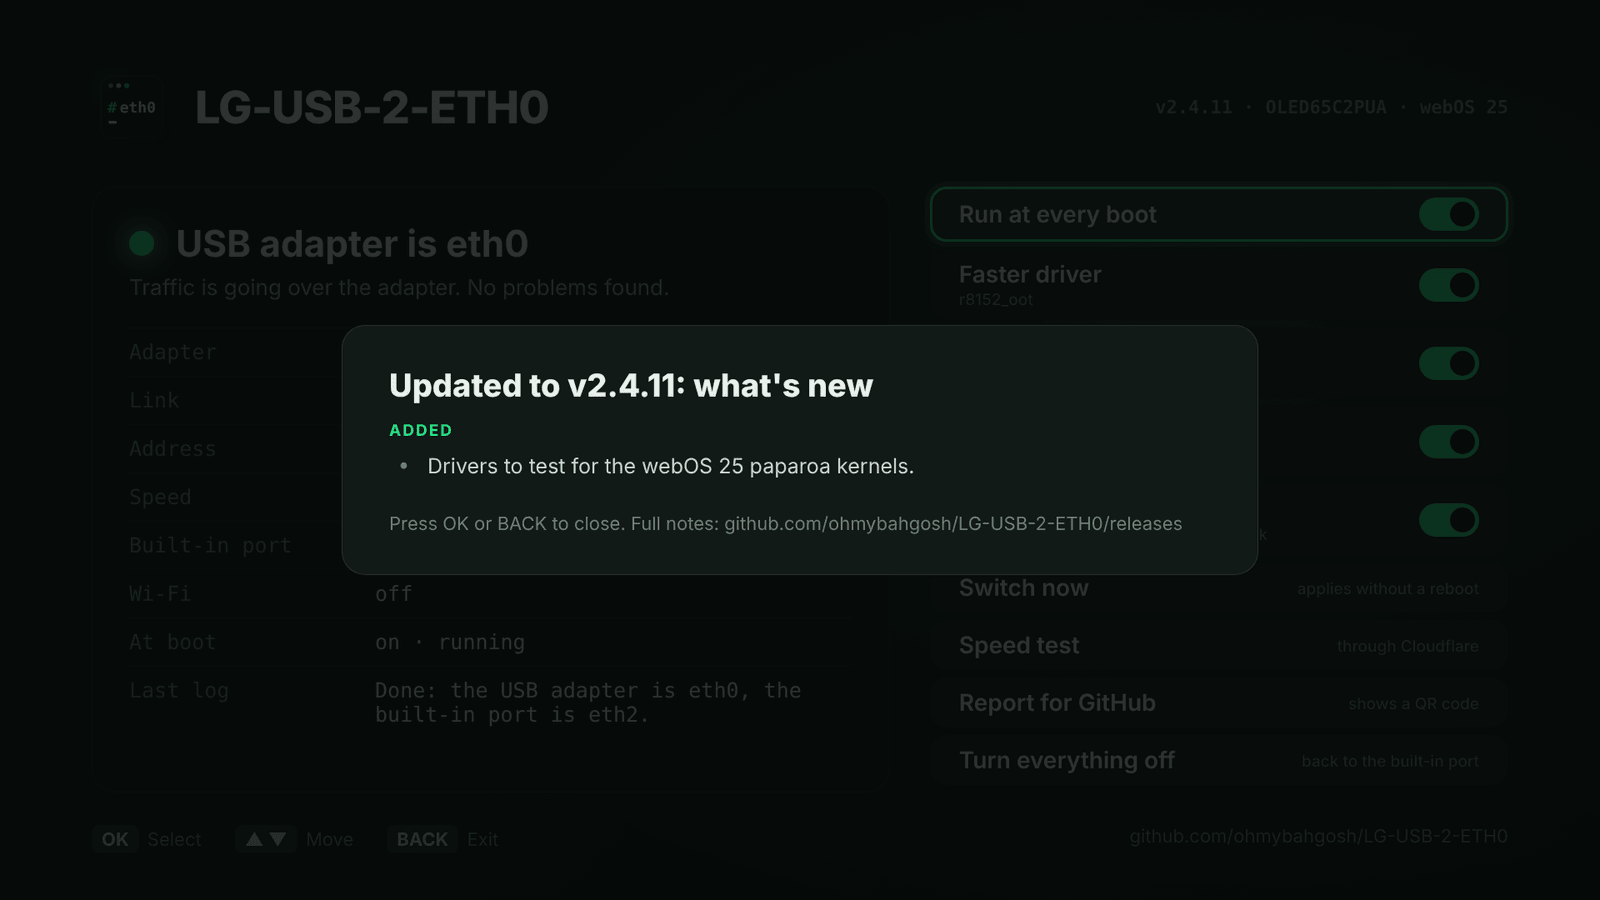
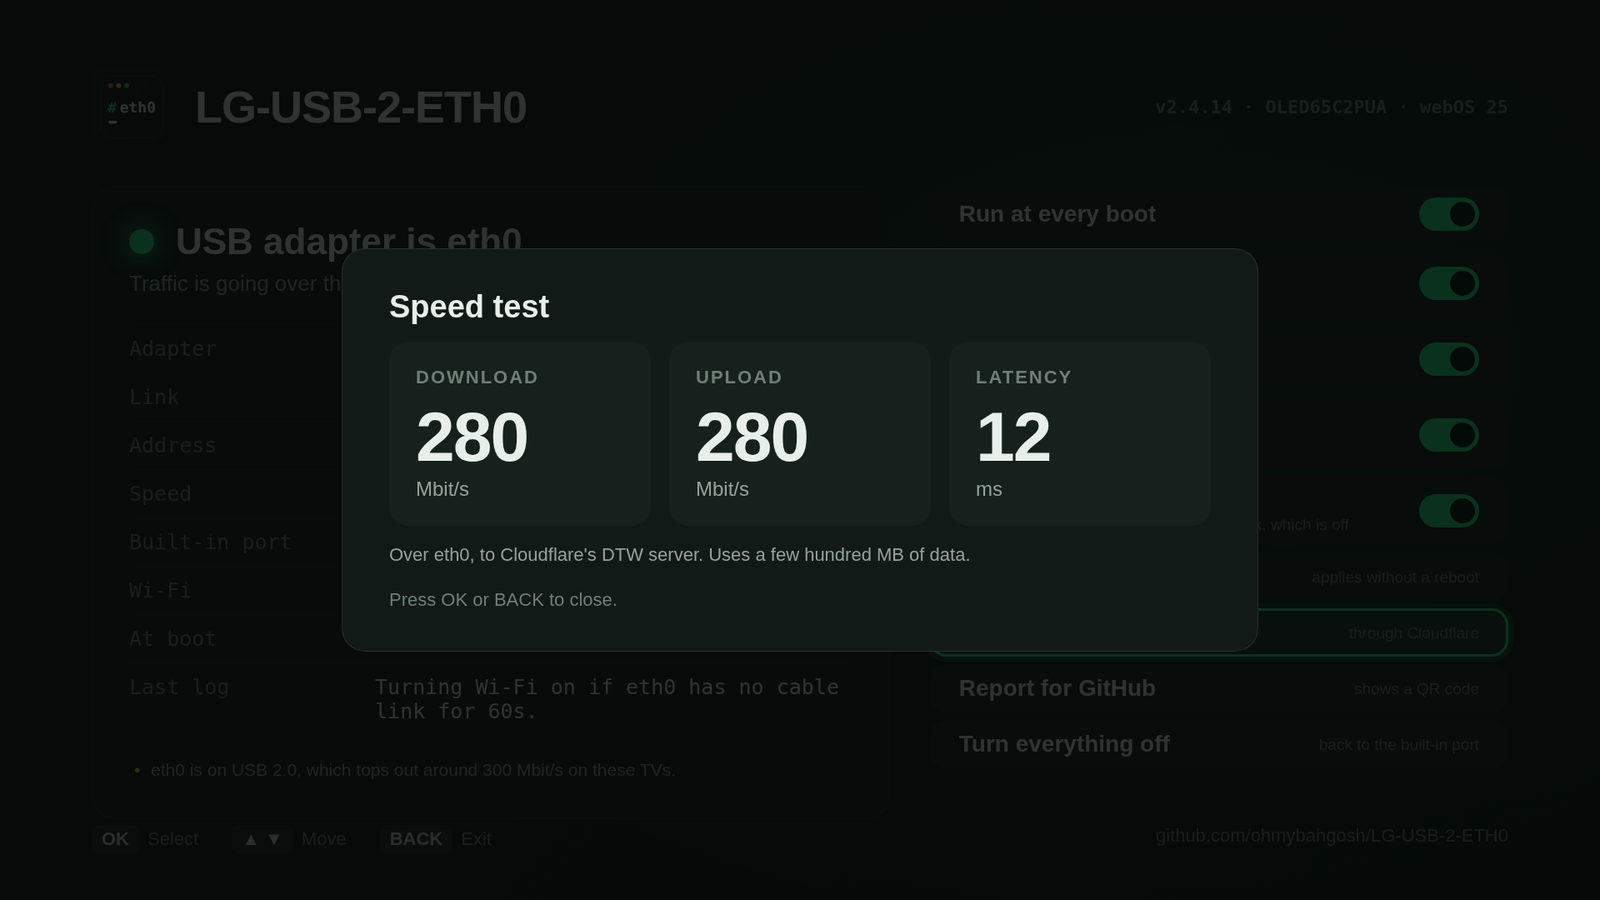
TV app clips and screenshots from the virtual TV
Faster driver, Test a new driver, Realtek mode and Switch now as
clips in the README, and the screenshots retaken on the virtual TV
(new: Realtek mode on a C9), all made by scripts/virtual-tv/make-media.sh.
The virtual TV gains C2s with a driver on offer and one to test.

The app shows Realtek mode only for RTL8152 and RTL8153 adapters, and
a driver test report says "link unknown" instead of "link M".

diff --git a/scripts/virtual-tv/record.js b/scripts/virtual-tv/record.js
@@ -7,12 +7,13 @@
 //
 // Steps: up, down, left, right, ok, back (each can take *N), wait:MS,
 // shot:FILE.png (a full-size screenshot), and focus:ACTION (focus the row
-// with that data-action, like a user scrolling to it).  --keep uses the
+// with that data-action; for screenshots only, since OK still acts on the
+// row the arrows last moved to).  --keep uses the
 // virtual TV as it is instead of setting it up again.  --width 960 sets
 // the MP4's width (default 960, the README size), --fps its frame rate
 // (default 30), --trim the seconds to wait while the app loads before
 // recording starts (default 1.5), and --gif FILE also writes a GIF like the
-// README's.  Frames come from Chromium's screencast, sharp and only when
+// README's (--gif-width sets its width).  Frames come from Chromium's screencast, sharp and only when
 // the screen changes, like scripts/screenshots/record-tv.js on a real TV.
 // Needs Playwright (npm i playwright) and ffmpeg.
 'use strict';
@@ -35,6 +36,7 @@ const WIDTH = Number(arg('width', 960));
 const FPS = Number(arg('fps', 30));
 const TRIM = Number(arg('trim', 1.5));
 const GIF = arg('gif', '') && path.resolve(arg('gif'));
+const GIF_WIDTH = Number(arg('gif-width', WIDTH));
 const PORT = Number(arg('port', 8731));
 const VTV = path.join(__dirname, 'vtv.sh');
 const sleep = (ms) => new Promise((r) => setTimeout(r, ms));
@@ -113,7 +115,7 @@ const KEYS = { up: 'ArrowUp', down: 'ArrowDown', left: 'ArrowLeft', right: 'Arro
   }
   if (GIF) {
     execFileSync('ffmpeg', ['-v', 'error', '-y', '-i', video, '-vf',
-      'fps=15,scale=' + WIDTH + ':-1:flags=lanczos,split[a][b];[a]palettegen=max_colors=128:stats_mode=diff[p];[b][p]paletteuse=dither=bayer:bayer_scale=4:diff_mode=rectangle', GIF]);
+      'fps=15,scale=' + GIF_WIDTH + ':-1:flags=lanczos,split[a][b];[a]palettegen=max_colors=128:stats_mode=diff[p];[b][p]paletteuse=dither=bayer:bayer_scale=4:diff_mode=rectangle', GIF]);
     console.log('wrote ' + GIF);
   }
   fs.rmSync(work, { recursive: true, force: true });

diff --git a/webos-app/src/app.js b/webos-app/src/app.js
@@ -225,11 +225,13 @@
         $('tog-watch').className = 'tog' + (bootOn && h.watch ? ' on' : '');
         $('tog-wifi').className = 'tog' + (bootOn && h.wifiFallback ? ' on' : '');
         $('tog-updates').className = 'tog' + (bootOn && h.blockUpdates ? ' on' : '');
-        // Realtek mode: only on kernels with their own r8152, or when it's
-        // been turned off (so it can be turned back on)
+        // Realtek mode: on kernels with their own r8152, or when it's been
+        // turned off (so it can be turned back on)
         var rt = s.realtek || {};
         var rtBtn = document.querySelector('[data-action="realtek"]');
-        rtBtn.style.display = (rt.r8152 || h.realtekMode === false) ? '' : 'none';
+        // Only for adapters it can help: Realtek RTL8152 and RTL8153
+        var rtFits = rt.r8152 && /^0bda:815[23]$/.test((s.adapter || {}).id || '');
+        rtBtn.style.display = (rtFits || rt.result || h.realtekMode === false) ? '' : 'none';
         $('tog-realtek').className = 'tog' + (h.realtekMode !== false ? ' on' : '');
         $('realtek-hint').textContent = rt.result === 'ok' ? 'your adapter is on the TV\'s own r8152' :
             rt.result === 'failed' ? 'r8152 didn\'t take your adapter' : 'uses the TV\'s own Realtek driver';

diff --git a/scripts/virtual-tv/server.js b/scripts/virtual-tv/server.js
@@ -41,7 +41,9 @@ function luna(body, res) {
   if (req.uri !== HBC_EXEC) { send({ returnValue: true }); return; }
   const cmd = String((req.params || {}).command || '');
   execFile(VTV, ['exec', cmd], { maxBuffer: 16 << 20, timeout: 120000 }, (err, stdout, stderr) => {
-    send({ returnValue: true, exitCode: err ? (err.code || 1) : 0, stdoutString: stdout, stderrString: stderr });
+    // Paths as they are on a TV: without the virtual TV's folder
+    const tv = (t) => String(t).split(path.join(DIR, 'root')).join('');
+    send({ returnValue: true, exitCode: err ? (err.code || 1) : 0, stdoutString: tv(stdout), stderrString: tv(stderr) });
   });
 }
 

diff --git a/README.md b/README.md
@@ -214,12 +214,20 @@ It runs the same script underneath, as root through the Homebrew Channel.  It wo
 
 <table>
   <tr>
-    <td width="50%"><img src="assets/screenshots/app-home.png" alt="Status screen: USB adapter is eth0, Realtek RTL8156 on r8152_oot, 1000 Mbit/s link over USB 2.0, with switches for Run at every boot, Faster driver, Follow plug and unplug, Wi-Fi as a backup and Block updates harder" /></td>
-    <td width="50%"><img src="assets/screenshots/app-speed.png" alt="Speed test result: 272 Mbit/s download, 287 Mbit/s upload, 7 ms latency, over eth0 to Cloudflare" /></td>
+    <td width="50%"><img src="assets/screenshots/app-home.png" alt="Status screen: USB adapter is eth0, Realtek RTL8156 on r8152_oot, 1000 Mbit/s link over USB 2.0, the last speed test, with switches for Run at every boot, Faster driver, Follow plug and unplug, Wi-Fi as a backup and Block updates harder" /></td>
+    <td width="50%"><img src="assets/screenshots/app-speed.png" alt="Speed test result: 280 Mbit/s download, 280 Mbit/s upload, 12 ms latency, over eth0 to Cloudflare" /></td>
   </tr>
   <tr>
     <td align="center"><b>Status at a glance</b></td>
     <td align="center"><b>Speed test</b></td>
+  </tr>
+  <tr>
+    <td width="50%"><img src="assets/screenshots/app-realtek.png" alt="A 2019 C9 with an RTL8153 adapter: Realtek mode is on, and the adapter is on the TV's own r8152 driver" /></td>
+    <td width="50%"><img src="assets/screenshots/app-report.png" alt="Report for GitHub: a QR code that opens a filled-in compatibility report, next to the report text with MAC addresses masked" /></td>
+  </tr>
+  <tr>
+    <td align="center"><b>Realtek mode</b></td>
+    <td align="center"><b>Report for GitHub</b></td>
   </tr>
   <tr>
     <td width="50%"><img src="assets/screenshots/app-drvtest-offer.png" alt="A new driver to test: the app says a driver has been built for this TV's kernel from LG's own source, that it's only loaded until the next restart, and that the adapter is one it supports.  Press OK to test it now, or BACK for later." /></td>
@@ -230,16 +238,37 @@ It runs the same script underneath, as root through the Homebrew Channel.  It wo
     <td align="center"><b>Its result, ready to send</b></td>
   </tr>
   <tr>
-    <td width="50%"><img src="assets/screenshots/app-report.png" alt="Report for GitHub: a QR code that opens a filled-in compatibility report, next to the report text with MAC addresses masked" /></td>
     <td width="50%"><img src="assets/screenshots/app-update.png" alt="Update row at the top of the menu: Update to the latest version, with the version you have, downloads and installs" /></td>
+    <td width="50%"><img src="assets/screenshots/app-upgrade-1.png" alt="Upgrading from v1: the app found the old boot hook and walks through replacing it, step by step" /></td>
   </tr>
   <tr>
-    <td align="center"><b>Report for GitHub</b></td>
     <td align="center"><b>Updates</b></td>
+    <td align="center"><b>Upgrading from v1</b></td>
   </tr>
 </table>
 
-<sub>The recording above is from a real LG C2.  The screenshots use made-up data from <a href="scripts/screenshots/">scripts/screenshots</a>, matching a C2 with an RTL8156 adapter.</sub>
+<b>In motion</b>
+
+<table>
+  <tr>
+    <td width="50%"><img src="assets/screenshots/clip-faster-driver.gif" alt="Faster driver: pressing it, the confirmation, the download and checks, then the adapter moving from cdc_ncm to r8152_oot" /></td>
+    <td width="50%"><img src="assets/screenshots/clip-test-driver.gif" alt="Test a new driver: the offer when the app opens, the test running, and the result with its report QR code" /></td>
+  </tr>
+  <tr>
+    <td align="center"><b>Faster driver</b></td>
+    <td align="center"><b>Test a new driver</b></td>
+  </tr>
+  <tr>
+    <td width="50%"><img src="assets/screenshots/clip-realtek-mode.gif" alt="Realtek mode on a C9: turning it off with its confirmation, and on again" /></td>
+    <td width="50%"><img src="assets/screenshots/clip-switch-now.gif" alt="Switch now on a C9 before setup: Realtek mode moves the RTL8153 to r8152, and the adapter becomes eth0" /></td>
+  </tr>
+  <tr>
+    <td align="center"><b>Realtek mode</b></td>
+    <td align="center"><b>Switch now</b></td>
+  </tr>
+</table>
+
+<sub>The recording above, the clips and most screenshots are from the <a href="scripts/virtual-tv/">virtual TV</a>: the app and the real script, on a made-up C2 with an RTL8156 adapter and a C9 with an RTL8153.  The update and v1 upgrade screenshots use made-up data from <a href="scripts/screenshots/">scripts/screenshots</a>.</sub>
 
 </details>
 
@@ -643,9 +672,9 @@ CI runs ShellCheck and the whole suite under all three shells on every push, bui
 The tests cover swapping and reverting, Wi-Fi and tethering being left alone, MAC pinning, rename retries and rollback, the SSH session warning, the boot hook with and without an adapter, a late adapter, `--watch` hotplug, disable and enable, upgrading from v1, `--module` checks, moving an adapter to a new driver and falling back when that fails, `get-driver` refusing unknown kernels and bad checksums, falling back to the mirror and picking the driver by chip and adapter, `test-driver` (a driver that works, one that doesn't load, and one that froze the TV), keeping the faster driver after standby, the Wi-Fi fallback (and leaving Wi-Fi alone when it's already on), blocking updates with and without the Homebrew Channel's block (and undoing only its own changes), flagging a 100 Mbit/s or half-duplex link, the speed test, updates (refusing a bad checksum, for the app and the plain script, and what's new after one), and the report.  A fake `curl`, `luna-send`, `nyx-cmd`, `insmod` and `iptables` stand in for the network and the TV's services.
 
 - **The TV app** is in `webos-app/`.  `webos-app/build.sh` builds the IPK and its Homebrew Channel manifest (it needs `ares-package` from `@webos-tools/cli`).
-- **Screenshots** come from the built app running in a desktop browser with made-up data.  After changing the app, `sh webos-app/build.sh && node scripts/screenshots/take.js` takes them again (it needs Playwright and ffmpeg).
-- **The recording** at the top of the TV app section is from the virtual TV (below), as a C9 in Realtek mode: `node scripts/virtual-tv/record.js --scenario c9 --steps 'wait:1300 down wait:1400 down*2 wait:400 ok wait:2800 back wait:700 down*4 wait:400 ok wait:3800 back wait:700 up*8 wait:1300' --gif assets/app-tv.gif`.  To record a real TV instead, open the app on it, forward its web inspector over SSH (`ssh -N -L 19998:127.0.0.1:9998 root@TV`), and run `node scripts/screenshots/record-tv.js`.  It only opens the Wi-Fi backup and report boxes, closes them with BACK, and changes nothing.
-- **The virtual TV** runs the TV app on your computer against the real script, with no TV: `scripts/virtual-tv/vtv.sh setup c9` builds a made-up TV (a fake `/sys` and TV commands, from the test suite's fakes), and `node scripts/virtual-tv/server.js` serves the app at `http://127.0.0.1:8730/`, where its commands run on that TV under busybox `sh`.  `node scripts/virtual-tv/record.js --scenario c9 --steps 'wait:3000 down*2 ok wait:2000 back' --mp4 out.mp4` records it headless, with the remote's keys.  `vtv.sh list` shows the TVs: a C2 on the faster driver, and a C9 whose RTL8153 Realtek mode moves to the kernel's own `r8152`.
+- **Screenshots, clips and the recording** come from the virtual TV (below): after changing the app, `sh webos-app/build.sh && sh scripts/virtual-tv/make-media.sh` makes them all again.  The update and v1 upgrade screenshots come from the built app with made-up data: `node scripts/screenshots/take.js` (it needs Playwright and ffmpeg).
+- **A real TV** can be recorded too, open the app on it, forward its web inspector over SSH (`ssh -N -L 19998:127.0.0.1:9998 root@TV`), and run `node scripts/screenshots/record-tv.js`.  It only opens the Wi-Fi backup and report boxes, closes them with BACK, and changes nothing.
+- **The virtual TV** runs the TV app on your computer against the real script, with no TV: `scripts/virtual-tv/vtv.sh setup c9` builds a made-up TV (a fake `/sys` and TV commands, from the test suite's fakes), and `node scripts/virtual-tv/server.js` serves the app at `http://127.0.0.1:8730/`, where its commands run on that TV under busybox `sh`.  `node scripts/virtual-tv/record.js --scenario c9 --steps 'wait:3000 down*2 ok wait:2000 back' --mp4 out.mp4` records it headless, with the remote's keys.  `vtv.sh list` shows the TVs: C2s with and without the faster driver and with a driver to test, and C9s before and after Realtek mode moves their RTL8153 to the kernel's own `r8152`.
 - **The banner** is `scripts/banner/banner.html`, made from the app icon and the status screenshot: `node scripts/banner/make.js` renders it to `assets/banner.webp`.
 - **The firmware audit:** `scripts/firmware-audit/audit.sh` unpacks an LG firmware file and lists the USB network drivers its kernel has ([docs/firmware-audit.md](docs/firmware-audit.md)).
 - **Driver builds:** `scripts/driver-build/build.sh` builds a driver for one kernel from LG's source and checks it ([docs/driver-build.md](docs/driver-build.md)).

diff --git a/CHANGELOG.md b/CHANGELOG.md
@@ -7,6 +7,12 @@ All notable changes to LG-USB-2-ETH0.  Versions follow [semantic versioning](htt
 ### Added
 
 - **A virtual TV for development** (`scripts/virtual-tv/`): the TV app on your computer, with its commands running the real script on a made-up TV (a C2 or a C9), and headless recordings with the remote's keys.  No TV needed to try the app or record it.
+- **Clips of the TV app in the README**: Faster driver, Test a new driver, Realtek mode and Switch now, and new screenshots, all from the virtual TV (`scripts/virtual-tv/make-media.sh`).
+
+### Fixed
+
+- **The app only shows Realtek mode for adapters it can help** (Realtek RTL8152 and RTL8153), not for every adapter on a kernel with `r8152`.
+- **A driver test report says "link unknown"** instead of "link M" when the adapter hadn't reported its speed yet.
 
 ## [2.4.14] - 2026-11-06
 
